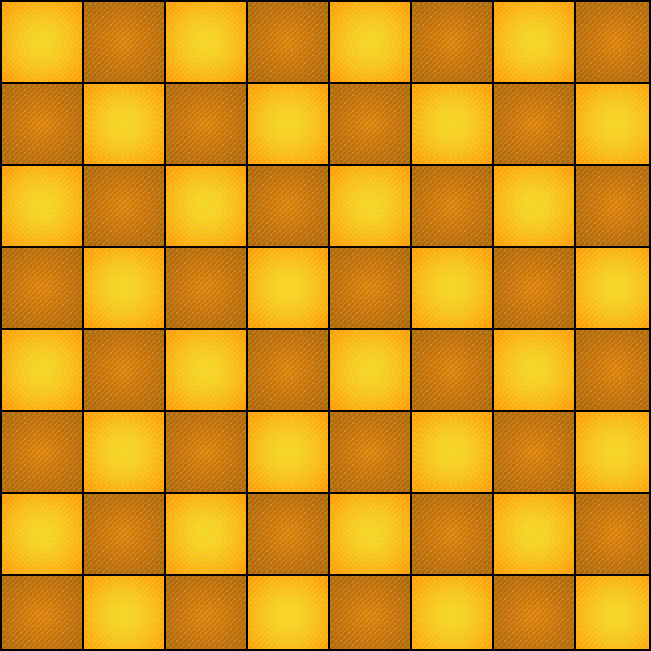
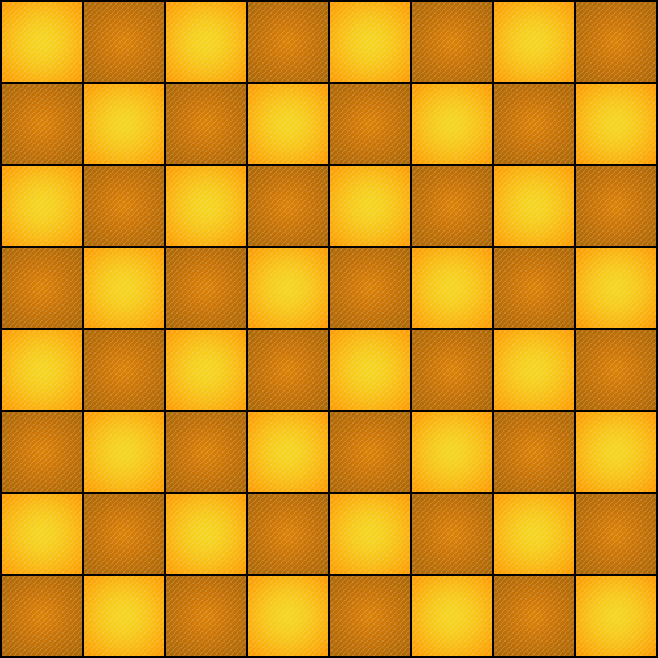
Setting pieces on board (even with dynamical scale)

diff --git a/engine.py b/engine.py
@@ -11,37 +11,75 @@ class Board(pygame.sprite.Sprite):
 
     def set_pieces(self):
         tiles_num = 8
-        board_size = self.rect.width
-        piece_size = round(board_size / tiles_num)
-        k = board_size / tiles_num % 1
+        border_size = 2
+        piece_size = (self.rect.width - border_size * tiles_num) / tiles_num
+        arg_size = (round(piece_size), round(piece_size))
 
         for x in range(tiles_num):
-            Pawn((all_sprites, pieces), (piece_size, piece_size),
-                 ((piece_size + 2) * x - round(k * x * 2), piece_size), 'black')
+            x_pos = round(piece_size * x + border_size * (x + 1))
+            Pawn((all_sprites, pieces), arg_size,
+                 (x_pos, round(piece_size + border_size)),
+                 'black', 'pawn.png')
+            Pawn((all_sprites, pieces), arg_size,
+                 (x_pos, round((tiles_num - 2) * piece_size + border_size * (tiles_num - 1))),
+                 'white', 'pawn.png')
 
         for x in range(tiles_num):
-            Pawn((all_sprites, pieces), (piece_size, piece_size),
-                 ((piece_size + 2) * x - round(k * x * 2), (tiles_num - 2) * piece_size + 5), 'white')
+            x_pos = round(piece_size * x + border_size * (x + 1))
+            PIECES[x]['obj']((all_sprites, pieces), arg_size,
+                             (x_pos, border_size),
+                             'black', PIECES[x]['pic'])
+            PIECES[x]['obj']((all_sprites, pieces), arg_size,
+                             (x_pos, round((tiles_num - 1) * piece_size + border_size * tiles_num)),
+                             'white', PIECES[x]['pic'])
 
 
-class Pawn(pygame.sprite.Sprite):
-    def __init__(self, groups, size, pos, color):
+class Piece(pygame.sprite.Sprite):
+    def __init__(self, groups, size, pos, color, im_name):
         super().__init__(*groups)
 
         self.color = color
-        image = pygame.image.load('data/{}/pawn.png'.format(color))
+        image = pygame.image.load('data/{}/{}'.format(color, im_name))
         self.image = pygame.transform.scale(image, size)
-        self.rect = pygame.Rect(pos, size)
+        self.rect = pygame.Rect(pos, (self.image.get_width(), self.image.get_height()))
+
+
+class Pawn(Piece):
+    pass
+
+
+class Rook(Piece):
+    pass
+
+
+class Knight(Piece):
+    pass
+
+
+class Bishop(Piece):
+    pass
+
+
+class Queen(Piece):
+    pass
+
+
+class King(Piece):
+    pass
 
 
 pygame.init()
 
-win_size = (651, 651)
+win_size = (658, 658)
 screen = pygame.display.set_mode(win_size)
 pygame.display.set_caption('ChessMate')
 
 all_sprites = pygame.sprite.Group()
 pieces = pygame.sprite.Group()
+
+PIECES = [{'obj': Rook, 'pic': 'rook.png'}, {'obj': Knight, 'pic': 'knight.png'}, {'obj': Bishop, 'pic': 'bishop.png'},
+          {'obj': Queen, 'pic': 'queen.png'}, {'obj': King, 'pic': 'king.png'},
+          {'obj': Bishop, 'pic': 'bishop.png'}, {'obj': Knight, 'pic': 'knight.png'}, {'obj': Rook, 'pic': 'rook.png'}]
 
 board = Board((all_sprites,), win_size)
 board.set_pieces()
